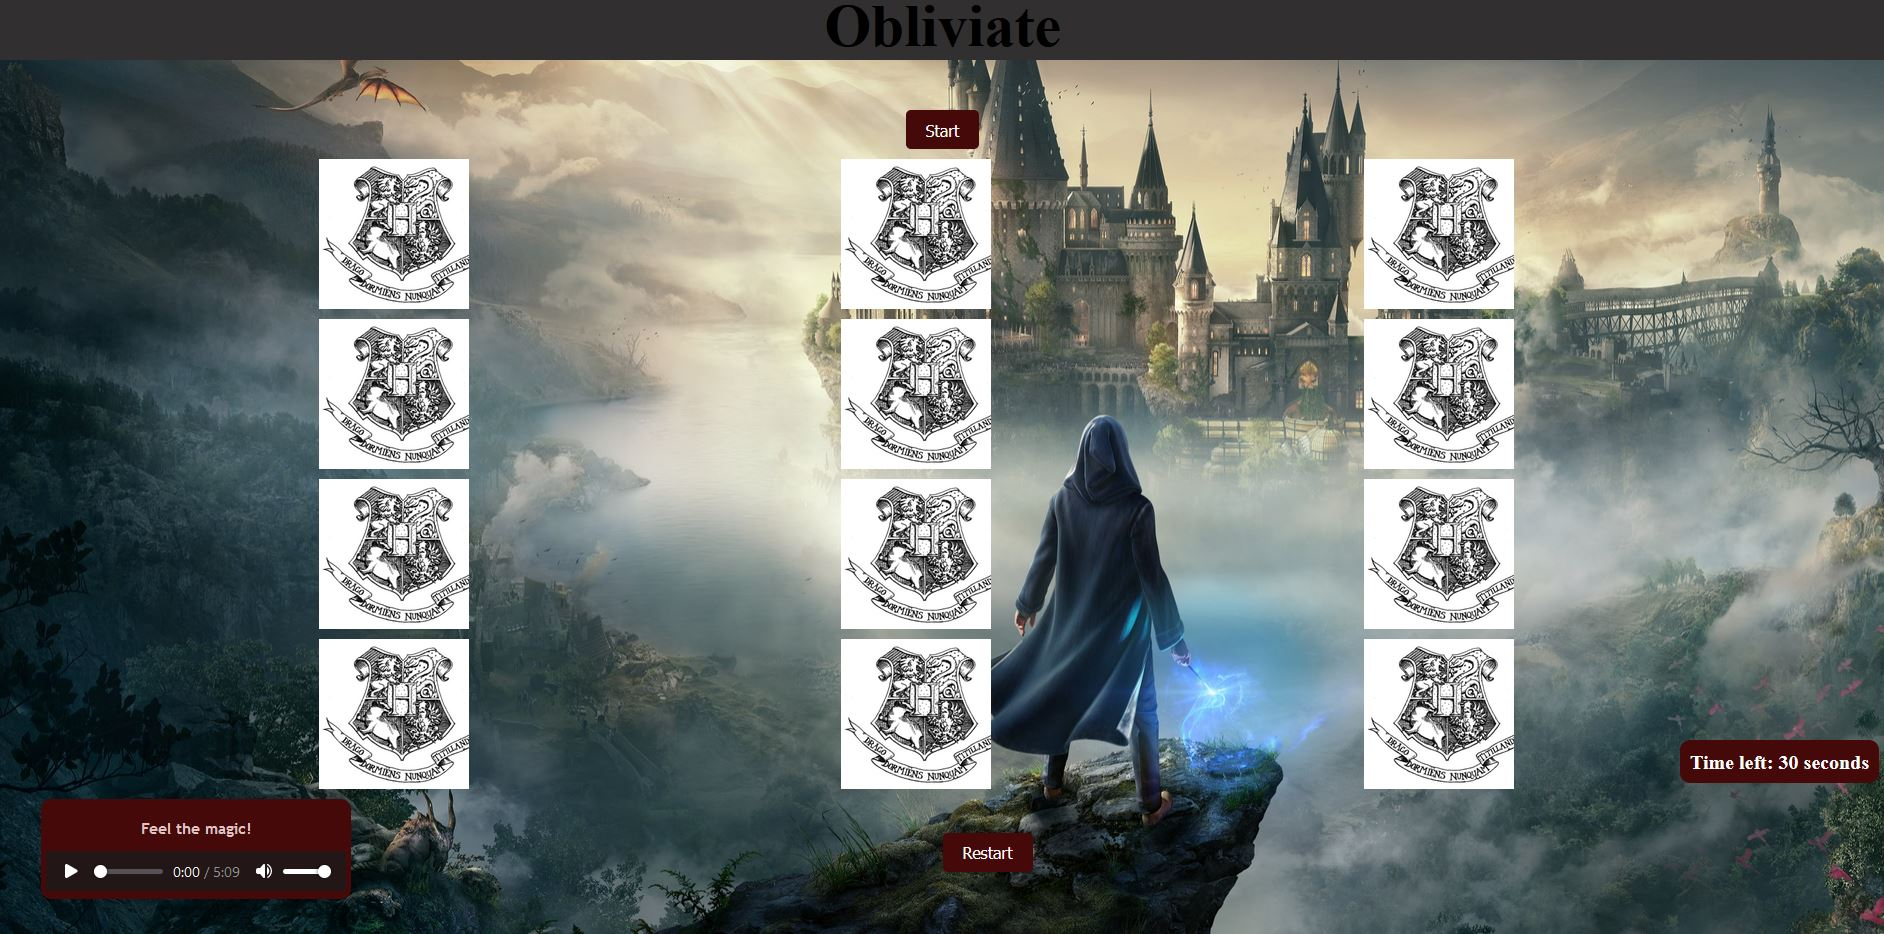
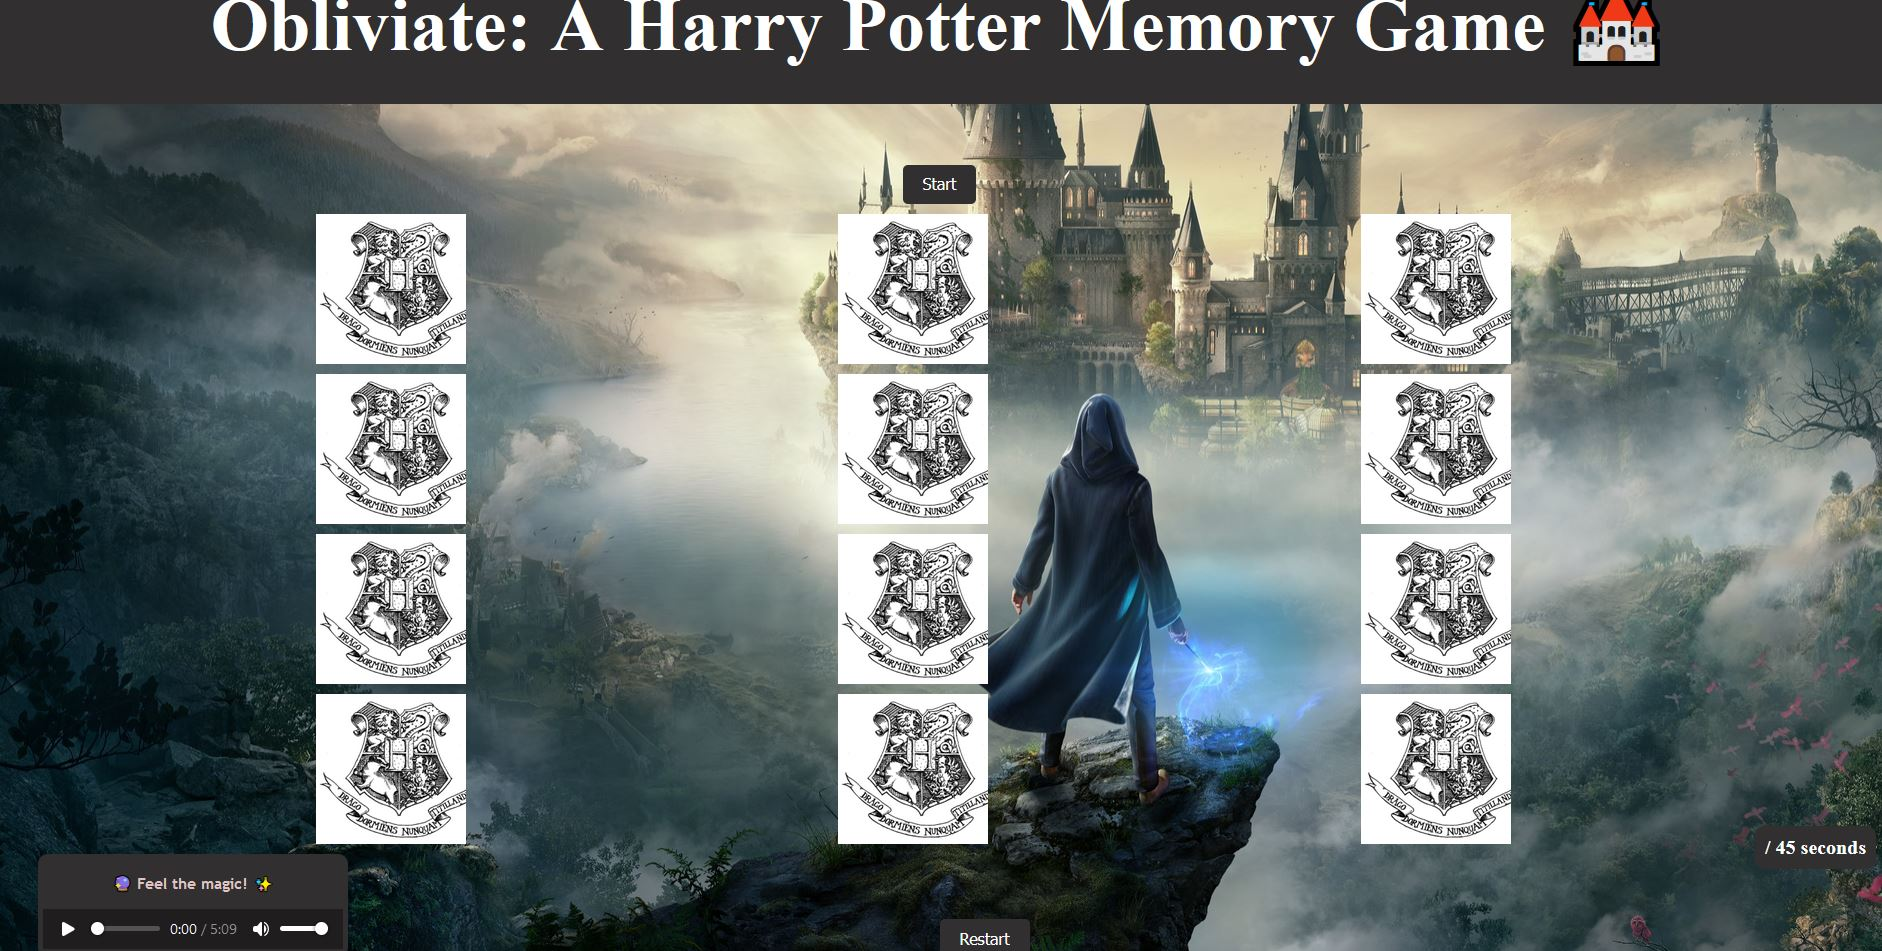
init

diff --git a/main.css b/main.css
@@ -4,8 +4,9 @@
   }
 
 h1 {
-    font-size: 60px; 
-    color: black;
+    font-size: 75px; 
+    padding-bottom: 35px;
+    color: white;
     background-color: rgb(49, 48, 48);
     background-size: cover; 
     background-position: center top;
@@ -16,7 +17,7 @@ h1 {
     position: absolute;
     bottom: 5px;
     right: 15px;
-    background-color:rgb(68, 9, 9);
+    background-color:rgb(49, 48, 48);
     padding: 10px; 
     border-radius: 10px; 
 }
@@ -31,7 +32,7 @@ h1 {
 #start-button {
     padding: 10px 20px;
     font-size: 16px;
-    background-color: rgb(68, 9, 9);
+    background-color: rgb(49, 48, 48);
     color: white;
     border: none;
     border-radius: 5px;
@@ -42,7 +43,7 @@ h1 {
 #restart-button {
     padding: 10px 20px;
     font-size: 16px;
-    background-color: rgb(68, 9, 9);
+    background-color: rgb(49, 48, 48);
     color: white;
     border: none;
     border-radius: 5px;
@@ -120,7 +121,7 @@ h1 {
     left: 50%;
     transform: translate(-50%, -50%);
     padding: 20px;
-    background-color: rgb(68, 9, 9);
+    background-color: rgb(49, 48, 48);
     background-size: cover;
     color: rgb(223, 196, 196);
     font-weight: bolder;
@@ -144,11 +145,16 @@ h1 {
     bottom: 0,25px; 
     left: 50px; 
     color:rgb(223, 196, 196);
-    background-color: rgb(68, 9, 9);
+    background-color: rgb(49, 48, 48);
     font-family: 'Trebuchet MS', 'Lucida Sans Unicode', 'Lucida Grande', 'Lucida Sans', Arial, sans-serif;
     padding: 5px;
     border-radius: 10px;
-    border-color: rgb(68, 9, 9);
+    border-color: rgb(49, 48, 48);
     font-size: 15px;
     font-weight: bolder;
+}
+
+body {
+    background-color: rgb(49, 48, 48);
+    ;
 }

diff --git a/index.html b/index.html
@@ -7,13 +7,13 @@
     <link rel="stylesheet" href="main.css">
 </head>
 <body>
-    <div class="responsive-div"></div>
+    <!--div class="responsive-div"></div-->
     <div class="container">
-        <h1>Obliviate</h1>
+        <h1>Obliviate: A Harry Potter Memory Game 🏰</h1>
         <button id="start-button">Start</button>
         <div class="timer-container">
             <div class="timer">
-                Time left: <span id="timer">30</span> seconds
+                <span id="timer"></span> / 45 seconds
             </div>
         </div>
         
@@ -26,7 +26,7 @@
     <div id="notification"></div>
 
     <div class="music">
-        <p>Feel the magic!</p>
+        <p>🔮 Feel the magic! ✨</p>
         <audio controls>
         <source src="Hedwig's Theme.mp3" type="audio/mpeg">
       Your browser does not support the audio element.

diff --git a/script.js b/script.js
@@ -139,11 +139,11 @@ document.getElementById('start-button').addEventListener('click', () => {
 });
 
 function startTimer() {
-    let timeLeft = 30;
+    let timeLeft = 45;
 
     timer = setInterval(() => {
         timeLeft--; 
-        document.getElementById('timer').textContent = `Time Left: ${timeLeft} seconds`;
+        document.getElementById('timer').textContent = `Time Left: ${timeLeft} `;
 
         if (timeLeft === 0) {
             clearInterval(timer);
